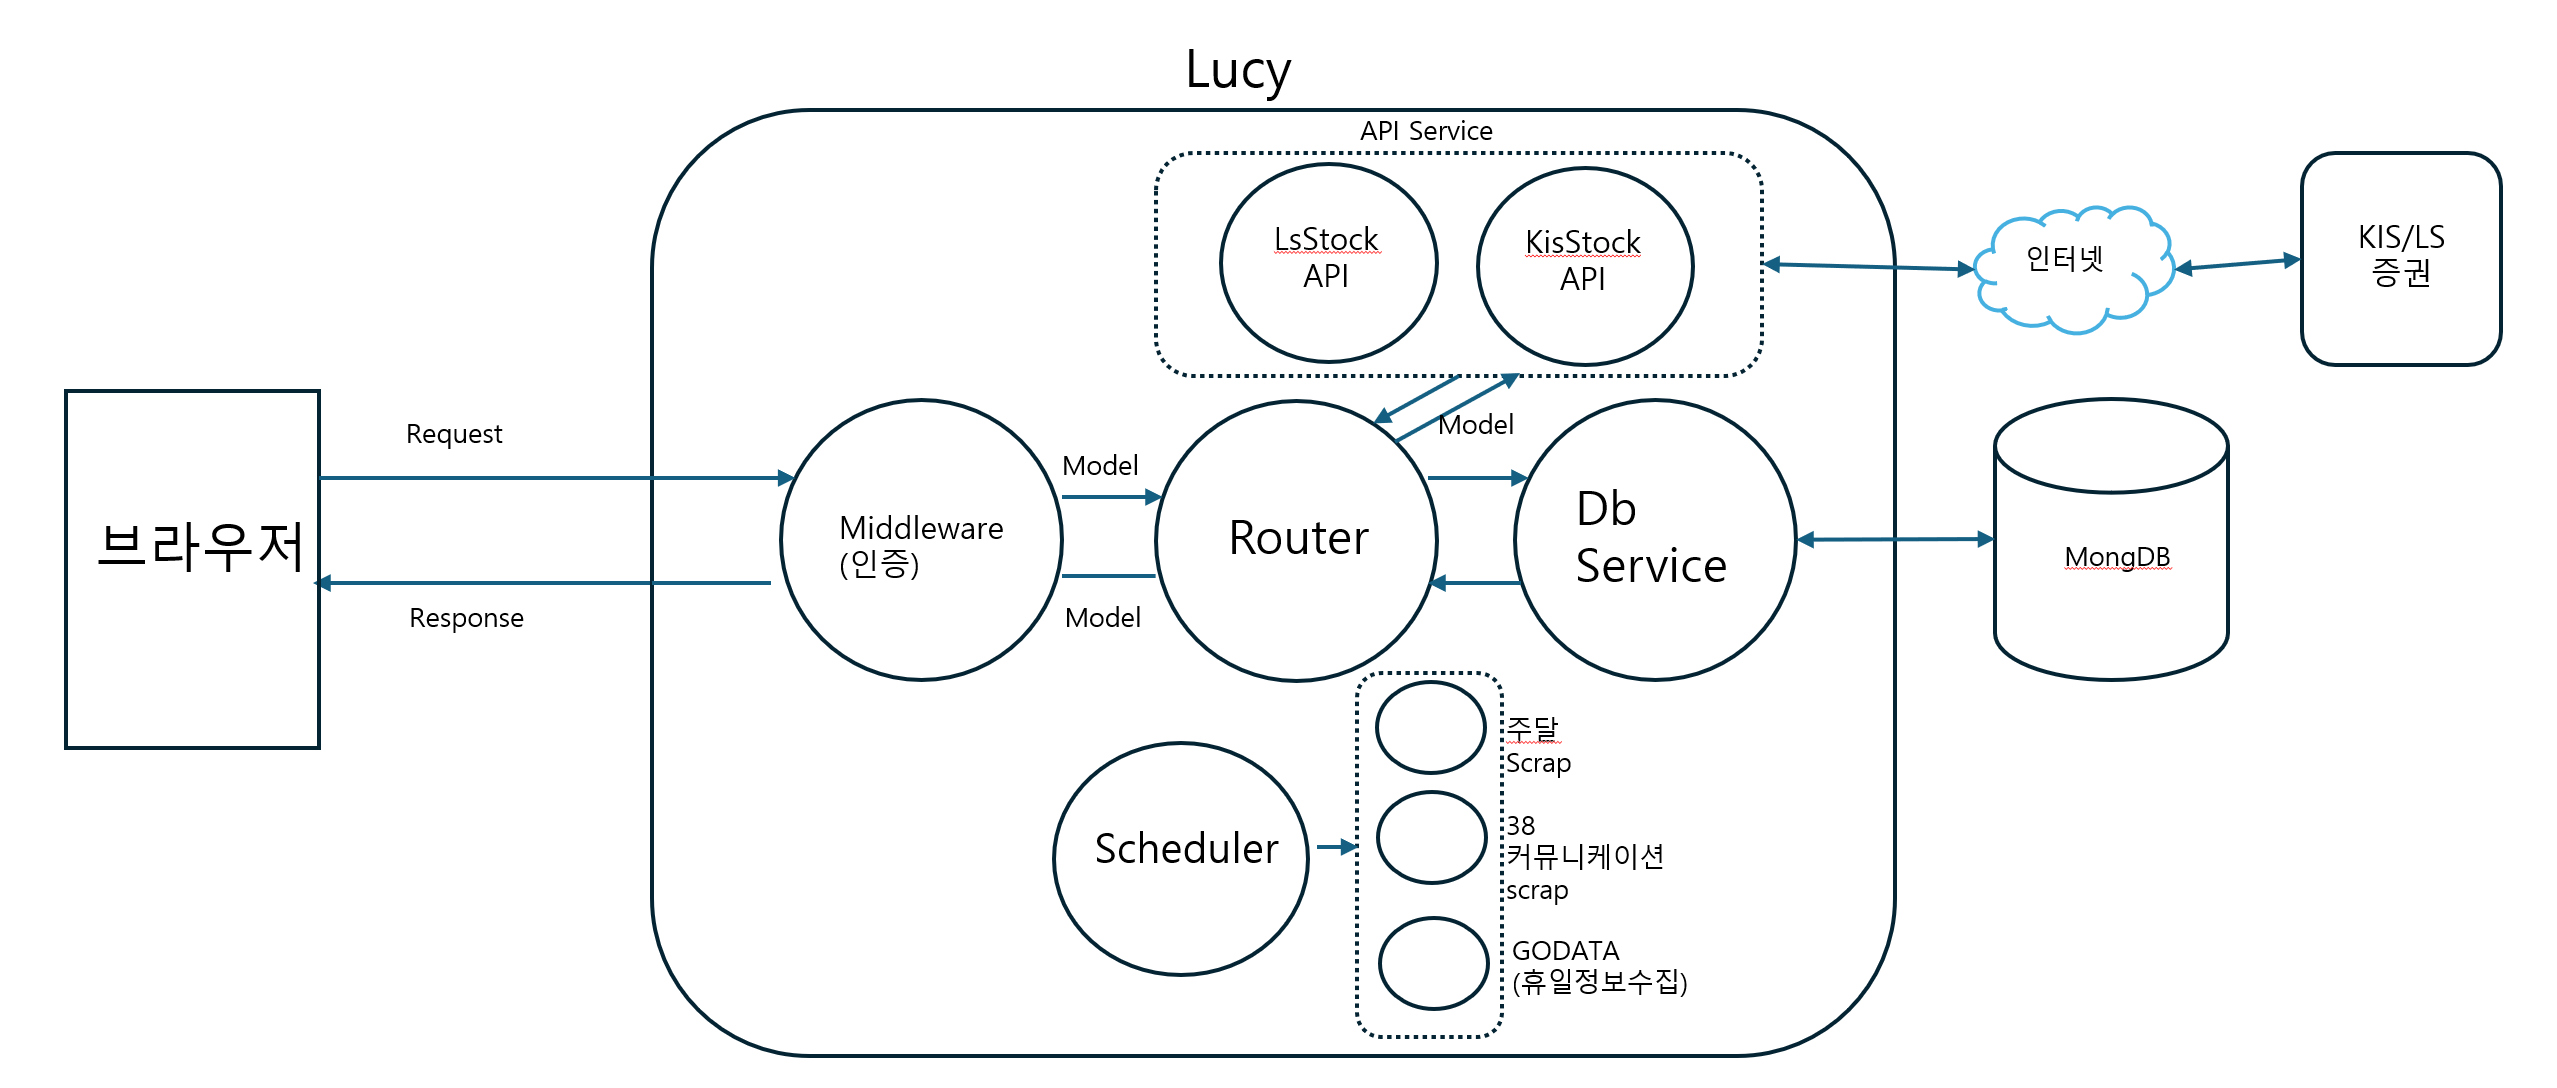
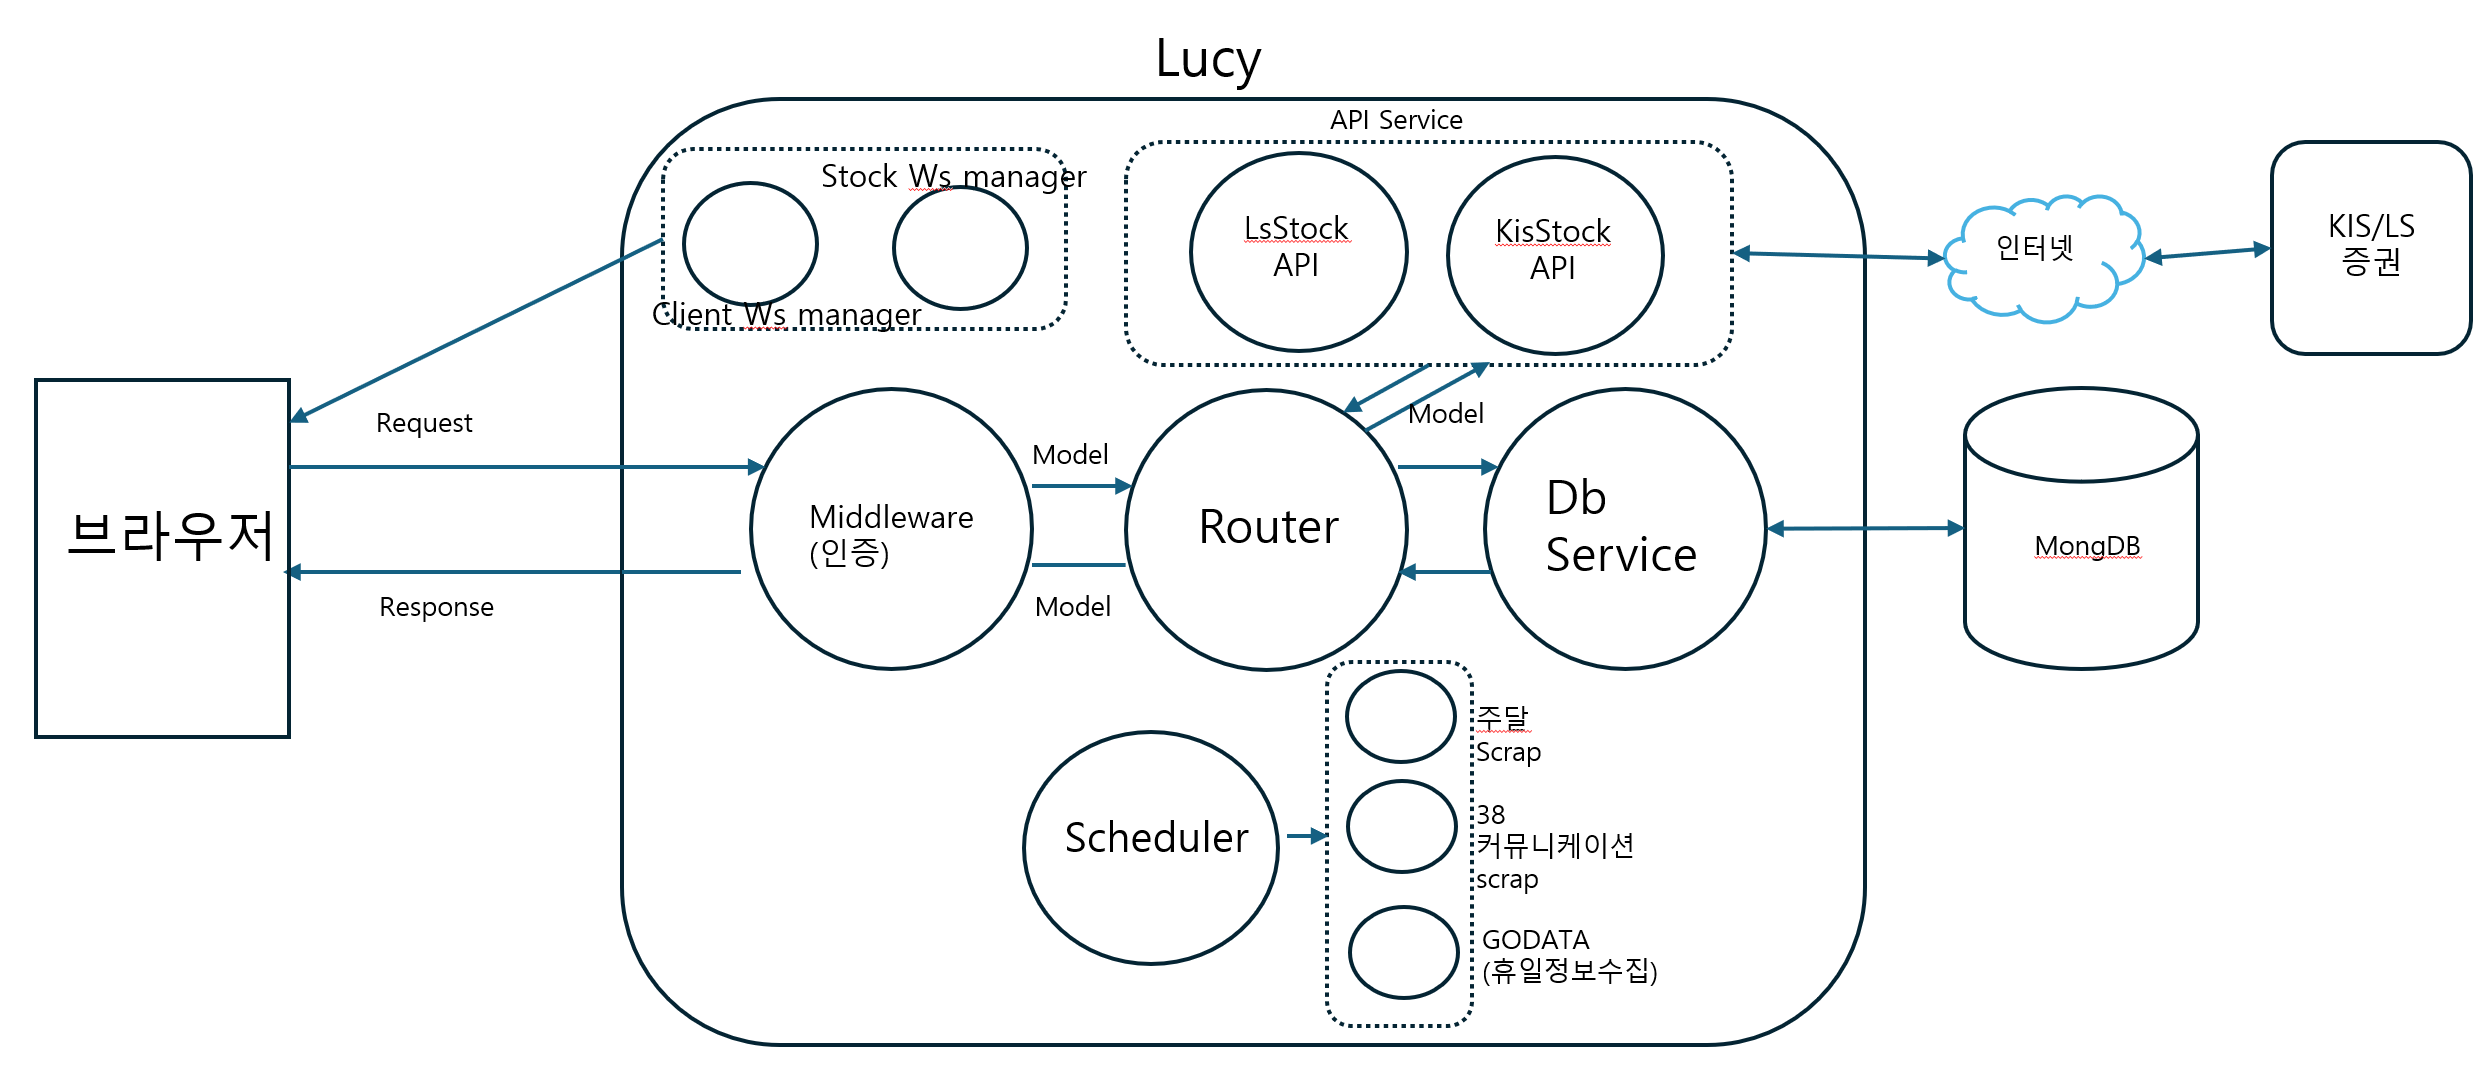
250102

diff --git a/lucy/doc/product/lucy.md b/lucy/doc/product/lucy.md
@@ -276,6 +276,21 @@ config = Config()
 
 ### 3.4 KIS 증권 api
 
+- 부모 클래스 StockApi로 부터 상속받습니다. 즉 StockApi의 자식 클래스입니다.
+
+```mermaid
+classDiagram
+    StockApi <|-- KisStockApi
+    StockApi <|-- LsStockApi
+    StockApi : +user_id
+    StockApi : +acctno
+    StockApi : +user_service
+    StockApi : initialize()
+    StockApi : get_access_token_time()
+    LsStockApi : send_request()
+    KisStockApi : send_request()
+```
+
 - KIS 증권과의 api를 위해서 KisStockApi class 작성하여 사용합니다.
 - 파일명 : kis_stock_api.py
 - [KIS에서 제공하는 RestfulAPI](https://apiportal.koreainvestment.com/apiservice/oauth2#L_5c87ba63-740a-4166-93ac-803510bb9c02)의 각 서비스를 호출합니다.
@@ -339,7 +354,37 @@ config = Config()
 
 ### 3.5 LS 증권 api
 
+- 부모 클래스 StockApi로 부터 상속받습니다. 즉 StockApi의 자식 클래스입니다.
 - LS증권의 제공되는 API를 사용하기 위해서 KIS와 유사하게 LsStockApi class가 작성되었습니다.
 - KIS와 유사한 방식으로 작성되었습니다.
 - 파일명 : ls_stock_api.py
--
+- [LS에서 제공하는 RestfulAPI](https://openapi.ls-sec.co.kr/apiservice?group_id=ffd2def7-a118-40f7-a0ab-cd4c6a538a90&api_id=33bd887a-6652-4209-88cd-5324bc7c5e36)의 각 서비스를 호출합니다.
+- LS에서 제공하는 서비스를 구현한 다수의  method가 있지만 동일한 구조를 갖고 있습니다.
+- KisStockApi의 주요 메소드
+  - set_access_token_from_kis : 동기(sync)방식으로 ACCESS_TOKEN을 발급받고 몽고 DB에 저장함
+  - send_request : 기타 함수(class method)에서 이 메소드를 호출하여 KIS에 서비스를 요청함.
+    - KIS는 GET, POST 2개의 method(http)만을 제공함
+
+### 3.6 StockApiManager
+
+- Lucy(OMS시스템)은 **여러명의 사용자가 다수의 증권사에 주문을 내고 체결통보를 받는다** 는 조건으로 설계되었습니다.
+- 즉 다수의 사용자, 각 사용자별로 다수의 증권사 계정을 관리하여야 합니다.
+- 이런 관리를 담당하는 것이 StockApiManager입니다.
+- 로그인 된 사용자 계정에 대해서 요청된 서비스가 KIS 서비스인지, LS 서비스인지 판별하여 해당하는 StockApi 객체를 반환해 주는 역활을 합니다.
+- 싱글레톤으로 구현되어 있습니다.
+
+### WebSocket Managers
+
+- KIS, LS 증권사들은 실시간 데이터를 Websocket을 사용하여 제공하고 있습니다.
+- 증권사들이 실시간으로 데이터를 제공하는 것에는 stkcode에 대한 실시간 가격정보와 체결정보가 있습니다.
+- 실시간 가격정보는 Lucy에서 사용하지 않으며 **체결정보만**을 사용합니다.
+- Lucy에서는 사용자별로 증권사의  websocket의 client로서 동작하는 **StockWsManager** 가 있습니다.
+- Lucy에서는 사용자 즉 접속한 Browser의 서버로서 동작하는 **ClientWsManager** 가 있습니다.
+- 동작순서
+  1. 사용자가 웹소켓 endpoint /ws에 접속
+  2. ClientWsManager 생성
+  3. 증권사별 StockWsManager의 생성 이때 2.에서 생성된 ClientWsManager를 인자로 넘겨 줌
+  4. 3.에서 생성된 StockWsManager는 증권사로부터 계속 실시간 데이터를 기다리고 있음
+     (참고: 실시간 가격정보는 계속 데이터가 전송되어져 오고, 체결정보는 체결시에만 데이터가 옴)
+  5. 증권사에서 체결정보가 전송되었을 때 StockWsManager는 자신에게 알려진 client로 체결정보를 전송함.
+
